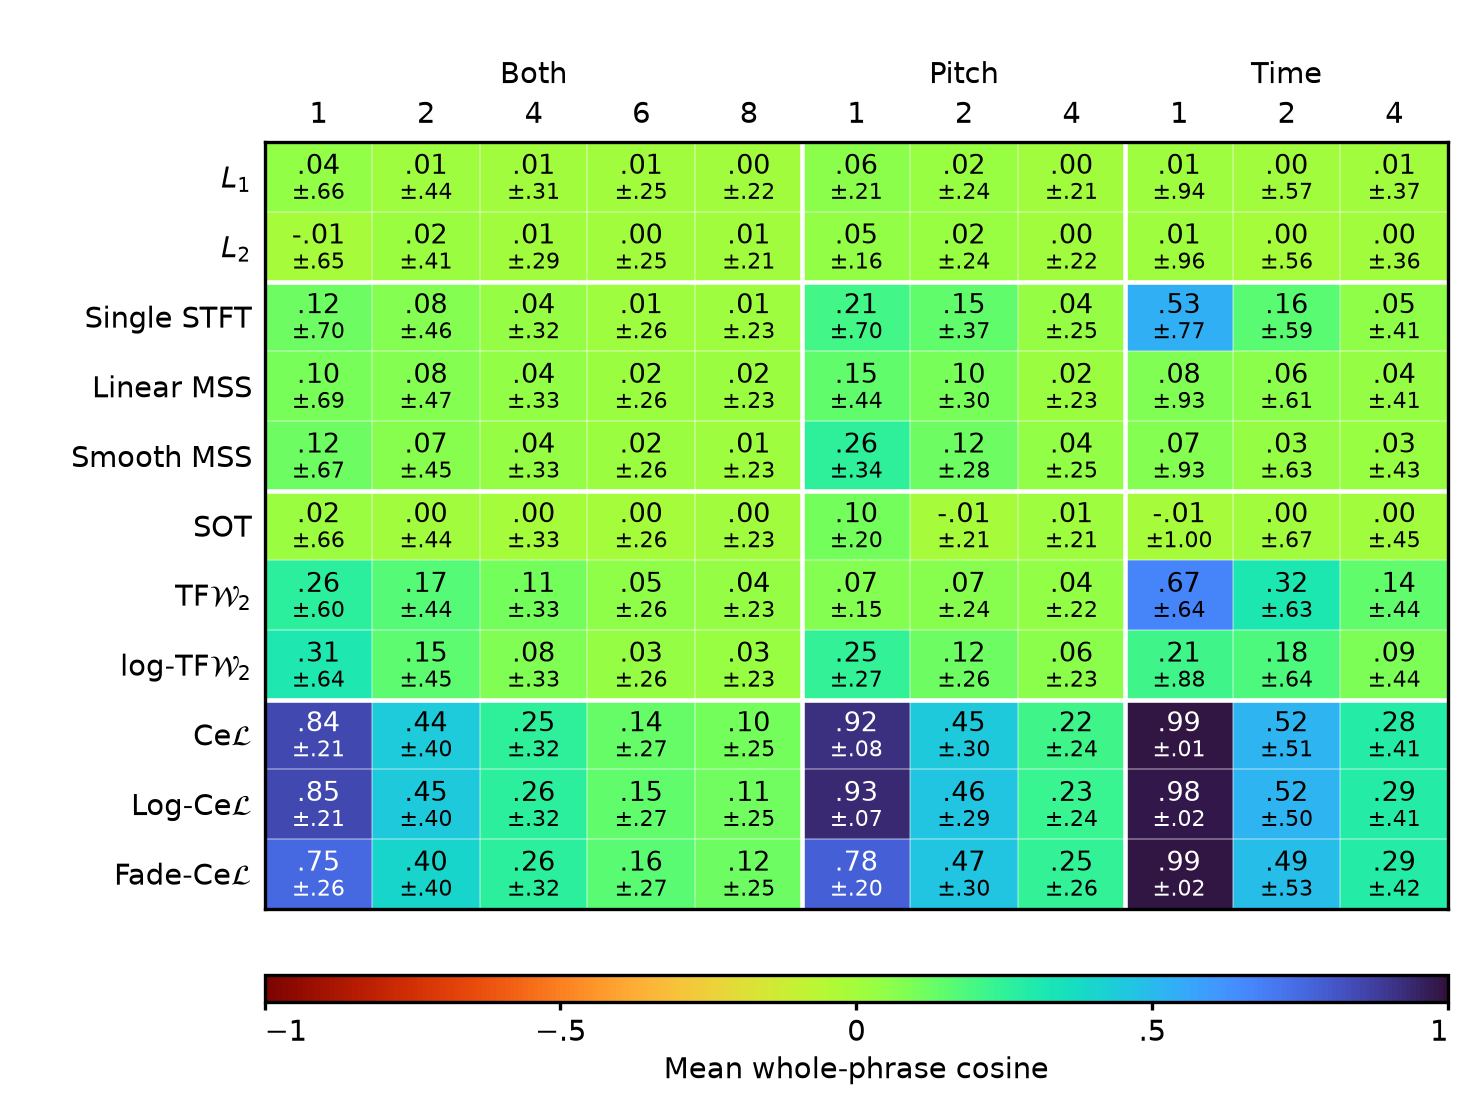
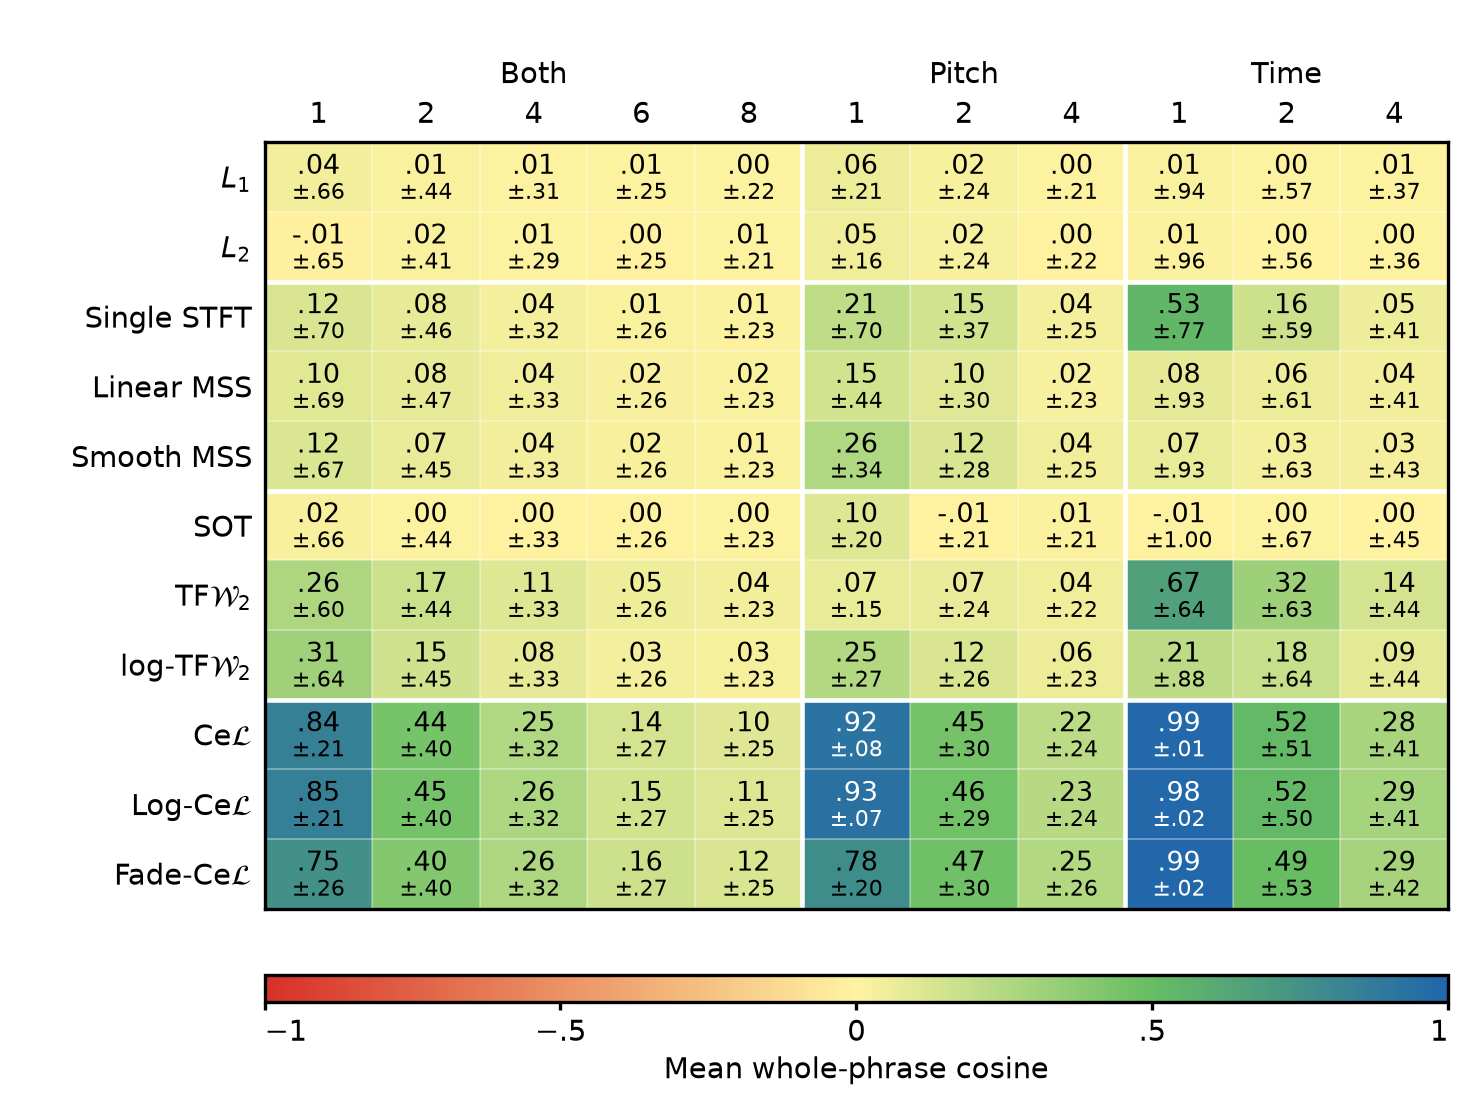
Anchor cosine colours at yellow zero green half and blue one

diff --git a/scripts/report_gradient_alignment.py b/scripts/report_gradient_alignment.py
@@ -69,7 +69,9 @@ def compact_cosine(value):
     return f"{value:z.2f}".replace("0.", ".", 1) if abs(value) < 0.995 else f"{value:.2f}"
 
 
-def render(output, metric, means, sds, columns=COLUMNS, positive_percent=None, turbo_style=False):
+def render(
+    output, metric, means, sds, columns=COLUMNS, positive_percent=None, anchored_style=False
+):
     width = len(columns)
     boundaries = [i - 0.5 for i in range(1, width) if columns[i][1] != columns[i - 1][1]]
     edges = [-0.5, *boundaries, width - 0.5]
@@ -86,9 +88,16 @@ def render(output, metric, means, sds, columns=COLUMNS, positive_percent=None, t
     plt.rcParams.update({"font.size": 7, "pdf.fonttype": 42})
     fig, ax = plt.subplots(figsize=(3.5 if width == 7 else 4.9, 3.65))
     fig.subplots_adjust(left=0.245 if width == 7 else 0.18, right=0.985, top=0.87, bottom=0.17)
+    from matplotlib.colors import LinearSegmentedColormap
+
+    anchored_cmap = LinearSegmentedColormap.from_list(
+        "cosine_red_yellow_green_blue",
+        [(0.0, "#d73027"), (0.5, "#fff3a1"), (0.75, "#66bd63"), (1.0, "#2166ac")],
+        N=1025,
+    )
     im = ax.imshow(
         means,
-        cmap="turbo_r" if turbo_style else "cividis" if percentage else "RdBu",
+        cmap=anchored_cmap if anchored_style else "cividis" if percentage else "RdBu",
         vmin=0 if percentage else -1,
         vmax=100 if percentage else 1,
         aspect="auto",
@@ -103,7 +112,7 @@ def render(output, metric, means, sds, columns=COLUMNS, positive_percent=None, t
         for j in range(width):
             value = means[i, j]
             color = "white" if (value < 48 if percentage else abs(value) > 0.55) else "black"
-            if turbo_style:
+            if anchored_style:
                 rgb = np.array(im.cmap(im.norm(value))[:3])
                 linear = np.where(rgb <= 0.04045, rgb / 12.92, ((rgb + 0.055) / 1.055) ** 2.4)
                 color = "black" if linear @ [0.2126, 0.7152, 0.0722] > 0.179 else "white"
@@ -113,7 +122,7 @@ def render(output, metric, means, sds, columns=COLUMNS, positive_percent=None, t
                 f"{value:.1f}"
                 if percentage
                 else compact_cosine(value)
-                if positive_percent is not None or turbo_style
+                if positive_percent is not None or anchored_style
                 else f"{value:.2f}",
                 ha="center",
                 va="center",
@@ -127,7 +136,7 @@ def render(output, metric, means, sds, columns=COLUMNS, positive_percent=None, t
                     f"({positive_percent[i, j]:.1f}%)"
                     if positive_percent is not None
                     else f"±{compact_cosine(sds[i, j])}"
-                    if turbo_style
+                    if anchored_style
                     else f"±{sds[i, j]:.2f}",
                     ha="center",
                     va="center",
@@ -148,7 +157,7 @@ def render(output, metric, means, sds, columns=COLUMNS, positive_percent=None, t
         cax=cax,
         orientation="horizontal",
         ticks=[-1, -0.5, 0, 0.5, 1]
-        if turbo_style
+        if anchored_style
         else [0, 25, 50, 75, 100]
         if percentage
         else [-1, -0.5, 0, 0.5, 1],
@@ -157,7 +166,7 @@ def render(output, metric, means, sds, columns=COLUMNS, positive_percent=None, t
         METRICS[metric] + ("; (positive phrases %)" if positive_percent is not None else ""),
         labelpad=2,
     )
-    if turbo_style:
+    if anchored_style:
         cb.set_ticklabels(["−1", "−.5", "0", ".5", "1"])
     cb.ax.tick_params(length=2, pad=2)
     cb.ax.get_xticklabels()[0].set_horizontalalignment("left")

diff --git a/scripts/render_gradient_cosine_sd.py b/scripts/render_gradient_cosine_sd.py
@@ -1,4 +1,4 @@
-"""Render saved phrase cosine ± SD with an full-range reversed turbo map."""
+"""Render saved phrase cosine ± SD with explicit colour anchors."""
 
 import csv
 import json
@@ -24,7 +24,7 @@ def main():
             row = rows[events, condition, loss]
             means[i, j], sds[i, j] = float(row["mean"]), float(row["candidate_sd"])
     assert np.isfinite(means).all() and np.isfinite(sds).all()
-    render(output, "phrase-cosine", means, sds, EXTENDED_COLUMNS, turbo_style=True)
+    render(output, "phrase-cosine", means, sds, EXTENDED_COLUMNS, anchored_style=True)
     headers = [
         f"{ {'joint': 'Both', 'pitch': 'Pitch', 'time': 'Time'}[c] }: {n}"
         for n, c in EXTENDED_COLUMNS
@@ -42,7 +42,8 @@ def main():
     (output / "phrase-cosine-style.json").write_text(
         json.dumps(
             dict(
-                cmap="turbo_r",
+                cmap="cosine_red_yellow_green_blue",
+                colour_anchors={"-1": "#d73027", "0": "#fff3a1", "0.5": "#66bd63", "1": "#2166ac"},
                 vmin=-1.0,
                 observed_min=float(means.min()),
                 vmax=1.0,

diff --git a/docs/gradient-assessment/alignment-extended/README.md b/docs/gradient-assessment/alignment-extended/README.md
@@ -91,8 +91,8 @@ Reproduce with `scripts/render_gradient_cosine_positive.py` using the project Py
 ## Current phrase-cosine styling
 
 The primary [phrase-cosine figure](phrase-cosine.png) again shows mean ± SD,
-with the leading zero omitted in both numbers. It uses Matplotlib's `turbo_r`
-with the full linear cosine colour range from −1 (red) to +1 (blue/purple);
+with the leading zero omitted in both numbers. It uses a custom interpolated colour map
+anchored at −1 (red), 0 (yellow), .5 (green) and +1 (strong blue);
 ticks mark −1, −.5, 0, .5 and 1. Negative means are retained without clipping. Colour
 encodes mean only, not SD. This replaces the original full-range RdBu styling
 for this figure; other metric figures retain their previous scales.
